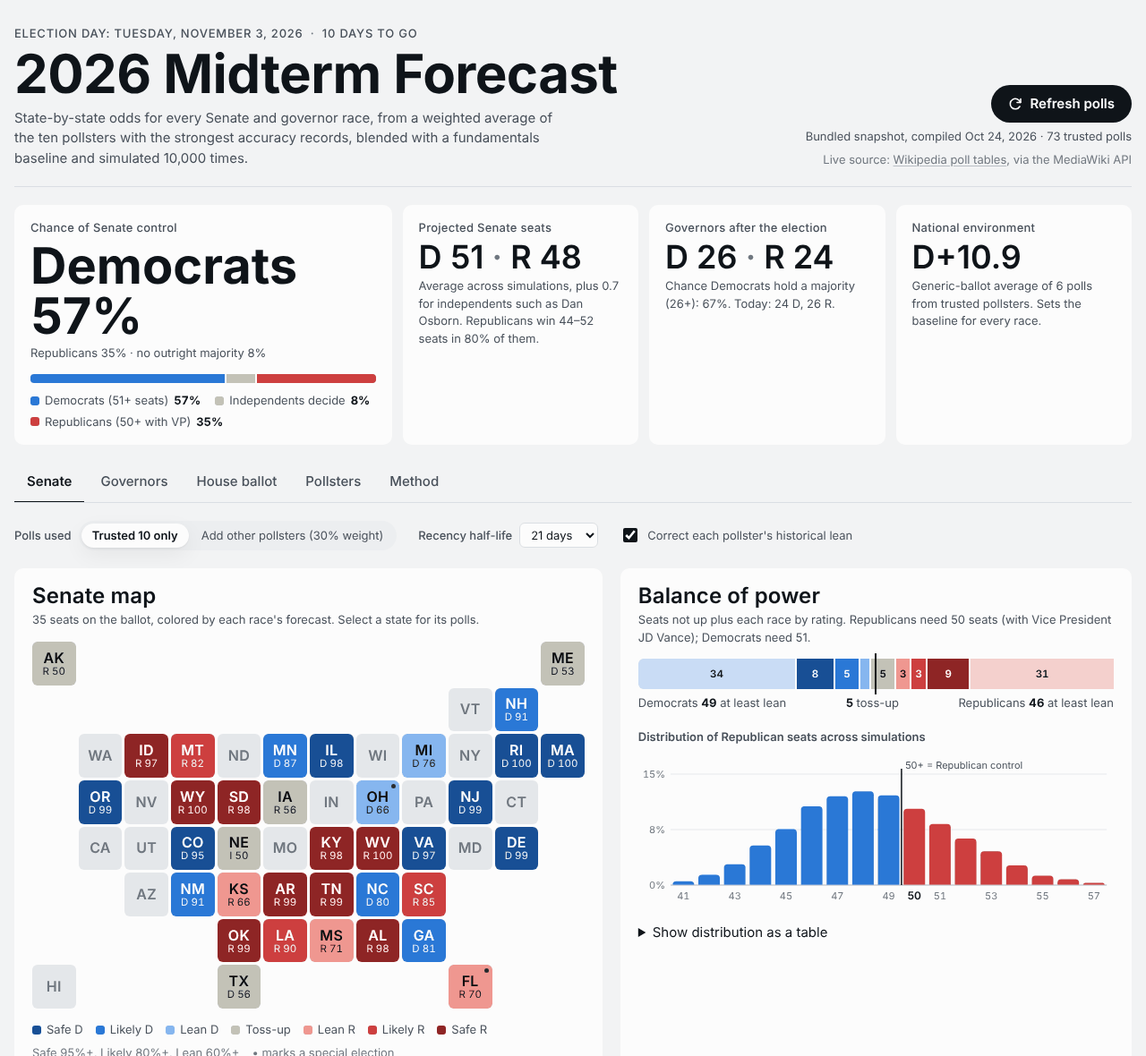
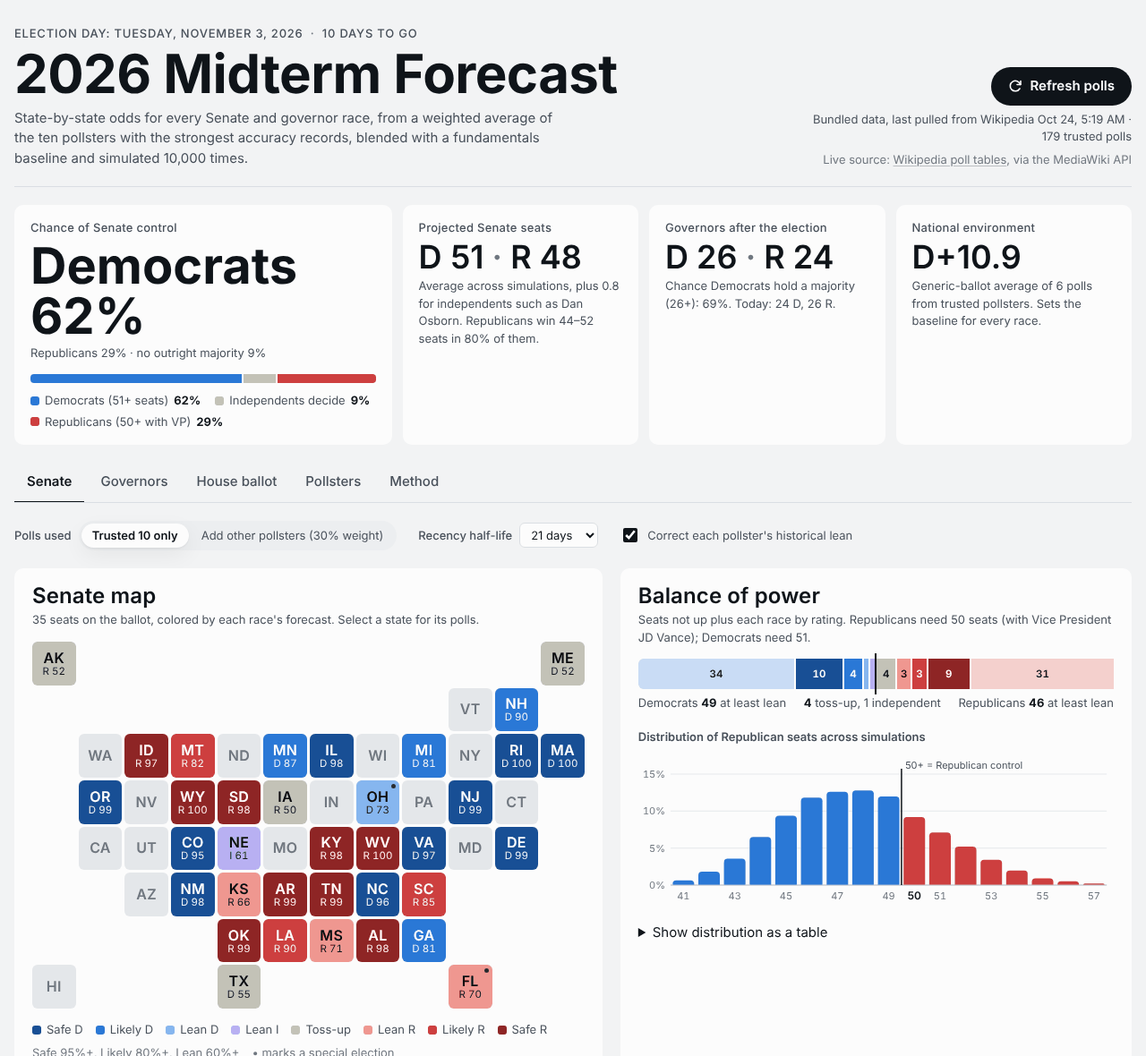
Label independents' margins, guard against stale data, dedupe polls
- Margins in independent-vs-Republican races read I+ instead of D+
  (Nebraska showed Osborn's lead as D+4.0).
- The status line says when the bundled data was last pulled from
  Wikipedia. A saved browser copy older than the bundle is dropped, and
  a fallback data file older than what is loaded only adds polls.
- Pollster names match with or without a party tag or leading "The".
  Remove 15 hand-compiled rows that Wikipedia lists under another name
  (Trafalgar, AJC, AARP and others), which double-counted them when
  other pollsters were included.
- README: forecast snapshot from the refreshed data, new screenshots,
  and a note that ratings follow the firm doing the fieldwork.

Claude-Session: https://claude.ai/code/session_0176JiQ2QTwzASsK9dQLLTXm

diff --git a/js/app.js b/js/app.js
@@ -119,7 +119,10 @@
       if (typeof prefs.applyBias === 'boolean') state.settings.applyBias = prefs.applyBias;
     }
     const saved = readStore(STORE_KEY);
-    if (saved && Array.isArray(saved.polls) && saved.polls.length && saved.fetchedAt) {
+    if (saved && SNAP.meta.refreshed && saved.fetchedAt && saved.fetchedAt < SNAP.meta.refreshed) {
+      // The bundled data was pulled from Wikipedia after this saved copy, so it supersedes it.
+      dropStore(STORE_KEY);
+    } else if (saved && Array.isArray(saved.polls) && saved.polls.length && saved.fetchedAt) {
       // Keep any hand-compiled rows the saved copy predates, then lay the saved rows on top.
       state.polls = W.mergePolls(SNAP.polls.slice(), saved.polls).polls;
       state.data = { origin: saved.origin || 'wikipedia', compiled: SNAP.meta.compiled, fetchedAt: saved.fetchedAt, pagesOk: saved.pagesOk, pagesTotal: saved.pagesTotal };
@@ -157,6 +160,8 @@
         (state.data.pagesTotal ? ' from ' + state.data.pagesOk + ' of ' + state.data.pagesTotal + ' pages' : '') +
         ' · ' + plural(n, 'trusted poll') + ' · ');
       append(box, h('button', { type: 'button', class: 'btn-link', onclick: resetToSnapshot, text: 'Use bundled snapshot' }));
+    } else if (SNAP.meta.refreshed) {
+      append(box, 'Bundled data, last pulled from Wikipedia ' + fmtTime(SNAP.meta.refreshed) + ' · ' + plural(n, 'trusted poll'));
     } else {
       append(box, 'Bundled snapshot, compiled ' + fmtDayYear(state.data.compiled) + ' · ' + plural(n, 'trusted poll'));
     }
@@ -168,7 +173,7 @@
   function resetToSnapshot() {
     dropStore(STORE_KEY);
     state.polls = SNAP.polls.slice();
-    state.data = { origin: 'snapshot', compiled: SNAP.meta.compiled, fetchedAt: null };
+    state.data = { origin: 'snapshot', compiled: SNAP.meta.compiled, fetchedAt: SNAP.meta.refreshed || null };
     $('change-banner').hidden = true;
     recompute();
   }
@@ -242,7 +247,7 @@
     return [
       h('div', { class: 'tt-value', text: raceTitle(r.race) }),
       h('div', null, ch.c0.name + ' (' + ch.c0.party + ') ' + fmtProb(r.prob) + ' · ' + ch.c1.name + ' (R) ' + fmtProb(1 - r.prob)),
-      h('div', { class: 'tt-dim' }, 'Forecast ' + fmtMargin(r.final.mean) + ' · ' + r.rating.label + ' · ' + coverageText(r))
+      h('div', { class: 'tt-dim' }, 'Forecast ' + fmtMargin(r.final.mean, r.race) + ' · ' + r.rating.label + ' · ' + coverageText(r))
     ];
   }
   function coverageText(r) {
@@ -435,9 +440,9 @@
         h('td', { class: 'state-cell' }, h('button', { type: 'button', 'aria-label': 'Open ' + raceTitle(race) + ' details', onclick: function (e) { e.stopPropagation(); openRace(race.id); }, text: race.state })),
         h('td', null, h('div', { class: 'race-name' },
           h('span', { class: 'who' }, c0.name + ' (' + c0.party + ')', h('span', { class: 'muted', text: ' vs. ' }), c1.name + ' (R)'),
-          h('span', { class: 'what' }, h('span', { class: 'what-rating', text: r.rating.label + ' · ' + fmtMargin(r.final.mean) + ' · ' }), what))),
+          h('span', { class: 'what' }, h('span', { class: 'what-rating', text: r.rating.label + ' · ' + fmtMargin(r.final.mean, race) + ' · ' }), what))),
         h('td', null, chanceCell(r)),
-        h('td', { class: 'num col-margin', text: fmtMargin(r.final.mean) }),
+        h('td', { class: 'num col-margin', text: fmtMargin(r.final.mean, race) }),
         h('td', { class: 'col-rating' }, h('span', { class: 'pill ' + fillClass(r), text: r.rating.label })),
         h('td', { class: 'col-polls' }, h('span', { class: 'coverage' }, bars, trusted ? String(trusted) : h('span', { class: 'muted', text: 'none' }))),
         h('td', { class: 'col-latest', text: r.avg ? fmtDay(r.avg.latest) : '–' }));
@@ -514,7 +519,7 @@
     if (series.length) {
       const last = series[series.length - 1];
       append(svg, sv('circle', { cx: xs(last.date), cy: ys(last.margin), r: 4.5, fill: 'var(--ink)', stroke: 'var(--surface)', 'stroke-width': 2 }));
-      append(svg, sv('text', { class: 'label-strong', x: xs(last.date) + 8, y: ys(last.margin) + 4, text: fmtMargin(last.margin) }));
+      append(svg, sv('text', { class: 'label-strong', x: xs(last.date) + 8, y: ys(last.margin) + 4, text: fmtMargin(last.margin, race) }));
     }
     const cross = sv('line', { x1: 0, x2: 0, y1: pad.t, y2: height - pad.b, stroke: 'var(--ink)', 'stroke-width': 1, opacity: 0 });
     append(svg, cross);
@@ -532,9 +537,9 @@
       cross.setAttribute('x1', xs(p.date)); cross.setAttribute('x2', xs(p.date)); cross.setAttribute('opacity', 0.35);
       const nearPolls = rows.filter(function (r) { return Math.abs(M.daysBetween(r.poll.end, p.date)) <= 1; });
       showTip(e.clientX, e.clientY, [
-        h('div', { class: 'tt-value', text: fmtMargin(p.margin) }),
+        h('div', { class: 'tt-value', text: fmtMargin(p.margin, race) }),
         h('div', { text: 'Average on ' + fmtDay(p.date) }),
-        nearPolls.map(function (r) { return h('div', { class: 'tt-dim', text: shortPollster(r.poll) + ': ' + fmtMargin(r.adjMargin) }); })
+        nearPolls.map(function (r) { return h('div', { class: 'tt-dim', text: shortPollster(r.poll) + ': ' + fmtMargin(r.adjMargin, race) }); })
       ]);
     });
     overlay.addEventListener('pointerleave', function () { cross.setAttribute('opacity', 0); hideTip(); });
@@ -650,7 +655,8 @@
       h('h3', { text: '4. Simulate' }),
       p('Each simulation draws one national polling error shared by every race (standard deviation ' + s.sigmaNational + ' points, fat-tailed) plus an independent error for each race, then counts seats. Republicans keep the Senate with 50 seats because Vice President JD Vance breaks ties. Democrats need 51. Independents such as Dan Osborn are counted separately, so some simulations end with no outright majority.'),
       h('h3', { text: '5. Refresh' }),
-      p('"Refresh polls" downloads every race article from Wikipedia through its public API, reads each poll table, keeps tables that list both nominees, prefers likely-voter versions of each poll, and merges new rows into the dataset. Everything then recalculates. Refreshed data is saved in this browser only. The bundled snapshot was compiled by hand on ' + fmtDayYear(SNAP.meta.compiled) + ' from pollster releases and news reports, with a source link on every poll. Rows marked ≈ have release dates standing in for unpublished field dates.'),
+      p('"Refresh polls" downloads every race article from Wikipedia through its public API, reads each poll table, keeps tables that list both nominees, prefers likely-voter versions of each poll, and merges new rows into the dataset. Everything then recalculates. Refreshed data is saved in this browser only. The bundled snapshot was compiled by hand on ' + fmtDayYear(SNAP.meta.compiled) + ' from pollster releases and news reports, with a source link on every poll' +
+        (SNAP.meta.refreshed ? ', then merged with Wikipedia\'s poll tables on ' + fmtTime(SNAP.meta.refreshed) : '') + '. Rows marked ≈ have release dates standing in for unpublished field dates.'),
       h('h3', { text: 'Limits' }),
       h('ul', null,
         h('li', null, 'Only the ten trusted pollsters count by default, so races they have not polled lean on the baseline. Switch on "Add other pollsters" to see how the picture changes with every public poll.'),
@@ -704,11 +710,11 @@
       : 'No qualifying polls; forecast uses the baseline only';
     append(body, h('div', { class: 'build' },
       h('div', { class: 'step' }, h('span', { class: 'k', text: state.settings.includeOthers ? 'Poll average (all pollsters)' : 'Poll average (trusted pollsters)' }),
-        h('span', { class: 'v', text: r.avg ? fmtMargin(r.avg.margin) : '–' }), h('span', { class: 's', text: pollPart })),
+        h('span', { class: 'v', text: r.avg ? fmtMargin(r.avg.margin, race) : '–' }), h('span', { class: 's', text: pollPart })),
       h('div', { class: 'step' }, h('span', { class: 'k', text: 'Fundamentals baseline' }),
-        h('span', { class: 'v', text: fmtMargin(r.prior.mean) }), h('span', { class: 's', text: r.prior.detail })),
+        h('span', { class: 'v', text: fmtMargin(r.prior.mean, race) }), h('span', { class: 's', text: r.prior.detail })),
       h('div', { class: 'step' }, h('span', { class: 'k', text: 'Forecast margin' }),
-        h('span', { class: 'v', text: fmtMargin(r.final.mean) }), h('span', { class: 's', text: '80% range ' + fmtMargin(lo) + ' to ' + fmtMargin(hi) }))));
+        h('span', { class: 'v', text: fmtMargin(r.final.mean, race) }), h('span', { class: 's', text: '80% range ' + fmtMargin(lo, race) + ' to ' + fmtMargin(hi, race) }))));
 
     const chartBox = h('div', { class: 'chart' });
     append(body, h('h3', { class: 'sub-head', text: 'Polling average since August (margin, ' + c0.last + ' minus ' + c1.last + ')' }), chartBox);
@@ -727,7 +733,7 @@
         h('td', null, dateCell(row.poll)),
         h('td', { text: sampleText(row.poll) }),
         h('td', { class: 'num', text: res }),
-        h('td', { class: 'num', title: row.bias ? 'Raw ' + fmtMargin(row.margin) + ', corrected for historical lean' : null, text: fmtMargin(row.adjMargin) }),
+        h('td', { class: 'num', title: row.bias ? 'Raw ' + fmtMargin(row.margin, race) + ', corrected for historical lean' : null, text: fmtMargin(row.adjMargin, race) }),
         h('td', { class: 'weights', text: 'trust ' + f.trust.toFixed(2) + ' × recency ' + f.recency.toFixed(2) + ' × size ' + f.size.toFixed(2) + ' × screen ' + f.pop.toFixed(2) + (f.repeat < 1 ? ' × repeat ' + f.repeat.toFixed(2) : '') }),
         h('td', { class: 'num', text: Math.round(row.share * 100) + '%' })));
     });
@@ -741,7 +747,7 @@
       if (others.length) {
         const list = h('ul', { class: 'race-notes' });
         others.slice(0, 12).forEach(function (p) {
-          append(list, h('li', null, sourceLink(p), ' · ' + fmtRange(p.start, p.end) + ' · ' + fmtMargin(M.pollMargin(p, race))));
+          append(list, h('li', null, sourceLink(p), ' · ' + fmtRange(p.start, p.end) + ' · ' + fmtMargin(M.pollMargin(p, race), race)));
         });
         append(body, h('details', { class: 'table-toggle' }, h('summary', { text: plural(others.length, 'poll') + ' from other pollsters, not used (turn on "Add other pollsters" to include them)' }), list));
       }
@@ -820,14 +826,16 @@
         via = 'the repository\'s data file through your GitHub connector';
       }
       if (fallback) {
-        const merged = W.mergePolls(state.polls, fallback.polls);
-        state.polls = merged.polls;
         const refreshed = fallback.meta && fallback.meta.refreshed;
-        state.data = { origin: 'repository', compiled: SNAP.meta.compiled, fetchedAt: refreshed || new Date().toISOString() };
-        writeStore(STORE_KEY, { origin: 'repository', fetchedAt: state.data.fetchedAt, polls: state.polls });
+        // A file older than the data already loaded may add polls but never rolls rows back.
+        const older = !!(refreshed && state.data.fetchedAt && refreshed < state.data.fetchedAt);
+        const merged = W.mergePolls(state.polls, fallback.polls, { addOnly: older });
+        state.polls = merged.polls;
+        if (!older) state.data = { origin: 'repository', compiled: SNAP.meta.compiled, fetchedAt: refreshed || new Date().toISOString() };
+        writeStore(STORE_KEY, Object.assign({}, state.data, { polls: state.polls }));
         recompute();
         showBanner(false, 'This page can\'t call Wikipedia directly, so it loaded ' + via + ' (' +
-          (refreshed ? 'last refreshed from Wikipedia ' + fmtTime(refreshed) : 'the hand-compiled snapshot; the repository\'s "Update polls" action has not run yet') + '): ' +
+          (refreshed ? 'last refreshed from Wikipedia ' + fmtTime(refreshed) + (older ? ', older than the data already here' : '') : 'the hand-compiled snapshot; the repository\'s "Update polls" action has not run yet') + '): ' +
           plural(merged.added.length, 'new poll') + ', ' + plural(merged.updated.length, 'updated row') + '.', null);
       } else if (connectorError) {
         showBanner(true, connectorError, null);
@@ -943,7 +951,7 @@
       const ul = h('ul');
       trustedNew.slice(0, 8).forEach(function (p) {
         const race = M.RACE_BY_ID[p.race];
-        append(ul, h('li', { text: shortPollster(p) + ' · ' + raceTitle(race) + ' · ' + fmtRange(p.start, p.end) + ' · ' + fmtMargin(M.pollMargin(p, race)) }));
+        append(ul, h('li', { text: shortPollster(p) + ' · ' + raceTitle(race) + ' · ' + fmtRange(p.start, p.end) + ' · ' + fmtMargin(M.pollMargin(p, race), race) }));
       });
       if (trustedNew.length > 8) append(ul, h('li', { text: 'and ' + (trustedNew.length - 8) + ' more' }));
       nodes.push(ul);

diff --git a/data/polls.js b/data/polls.js
@@ -94,27 +94,12 @@
     {"race":"GOV-ME","pollster":"Marist University","pollsterId":"marist","start":"2026-10-01","end":"2026-10-04","n":1505,"pop":"RV","results":{"Pingree":52,"Charles":40,"Bennett":6},"partisan":null,"source":"https://en.wikipedia.org/wiki/2026_Maine_gubernatorial_election","origin":"wikipedia"},
     {"race":"SEN-NH","pollster":"Saint Anselm College","pollsterId":null,"start":"2026-10-19","end":"2026-10-20","n":1672,"pop":"LV","results":{"Pappas":50,"Sununu":43},"partisan":null,"source":"https://en.wikipedia.org/wiki/2026_United_States_Senate_election_in_New_Hampshire","origin":"wikipedia","note":"Released Oct. 22."},
     {"race":"SEN-NH","pollster":"University of New Hampshire","pollsterId":null,"start":"2026-09-17","end":"2026-09-21","n":1418,"pop":"LV","results":{"Pappas":50,"Sununu":42},"partisan":null,"source":"https://en.wikipedia.org/wiki/2026_United_States_Senate_election_in_New_Hampshire","origin":"wikipedia"},
-    {"race":"SEN-NH","pollster":"Rasmussen Reports","pollsterId":null,"start":"2026-10-02","end":"2026-10-04","n":979,"pop":"LV","results":{"Pappas":49,"Sununu":44},"source":"https://www.realclearpolling.com/polls/senate/general/2026/new-hampshire/pappas-vs-sununu"},
-    {"race":"SEN-GA","pollster":"University of Georgia/AJC","pollsterId":null,"start":"2026-10-07","end":"2026-10-15","n":1000,"pop":"LV","results":{"Ossoff":48,"Collins":40},"source":"https://www.wsbtv.com/news/local/ajcuga-poll-jon-ossoff-leads-mike-collins-among-likely-voters-us-senate-race/YWLQFEFS3VHILHKZ3KWBO2ZX5I/"},
-    {"race":"SEN-GA","pollster":"Quantus Insights","pollsterId":null,"start":"2026-10-15","end":"2026-10-17","n":755,"pop":"LV","results":{"Ossoff":51.8,"Collins":44.9},"source":"https://www.atlantanewsfirst.com/2026/10/19/new-georgia-poll-ossoff-leads-by-nearly-7-jackson-dolezal-cling-narrow-edges/"},
-    {"race":"SEN-GA","pollster":"Trafalgar Group","pollsterId":null,"start":"2026-10-07","end":"2026-10-09","n":1101,"pop":"LV","results":{"Ossoff":51,"Collins":43},"source":"https://www.newsweek.com/jon-ossoff-extends-lead-over-mike-collins-in-georgia-senate-race-poll-12552612"},
+    {"race":"SEN-NH","pollster":"Rasmussen Reports","pollsterId":null,"start":"2026-10-02","end":"2026-10-04","n":979,"pop":"LV","results":{"Pappas":49,"Sununu":44},"source":"https://www.realclearpolling.com/polls/senate/general/2026/new-hampshire/pappas-vs-sununu","partisan":"R"},
     {"race":"SEN-NC","pollster":"Elon University / YouGov","pollsterId":null,"start":"2026-09-29","end":"2026-10-08","n":561,"pop":"LV","results":{"Cooper":52,"Whatley":39},"partisan":null,"source":"https://en.wikipedia.org/wiki/2026_United_States_Senate_election_in_North_Carolina","origin":"wikipedia"},
-    {"race":"SEN-NC","pollster":"Trafalgar Group","pollsterId":null,"start":"2026-10-08","end":"2026-10-10","n":1091,"pop":"LV","results":{"Cooper":48.8,"Whatley":40.9},"source":"https://thehill.com/homenews/campaign/6144234-roy-cooper-leads-whatley-nc/"},
     {"race":"SEN-MI","pollster":"YouGov","pollsterId":null,"start":"2026-09-22","end":"2026-10-04","n":3949,"pop":"LV","results":{"El-Sayed":49,"Rogers":48},"partisan":null,"source":"https://en.wikipedia.org/wiki/2026_United_States_Senate_election_in_Michigan","origin":"wikipedia"},
-    {"race":"SEN-MI","pollster":"InsiderAdvantage","pollsterId":null,"start":"2026-10-21","end":"2026-10-22","n":1200,"pop":"LV","results":{"El-Sayed":47,"Rogers":46},"source":"https://www.realclearpolling.com/polls/senate/general/2026/michigan/rogers-vs-el-sayed"},
-    {"race":"SEN-MI","pollster":"Tyson Group","pollsterId":null,"partisan":"R","start":"2026-10-06","end":"2026-10-08","n":600,"pop":"LV","results":{"El-Sayed":44,"Rogers":46},"note":"Sponsored by an ally of Mike Rogers.","source":"https://www.newsweek.com/rogers-el-sayed-clash-over-war-trump-in-final-michigan-senate-debate-12596649"},
+    {"race":"SEN-MI","pollster":"InsiderAdvantage","pollsterId":null,"start":"2026-10-21","end":"2026-10-22","n":1200,"pop":"LV","results":{"El-Sayed":47,"Rogers":46},"source":"https://www.realclearpolling.com/polls/senate/general/2026/michigan/rogers-vs-el-sayed","partisan":"R"},
     {"race":"SEN-NE","pollster":"YouGov","pollsterId":null,"start":"2026-09-24","end":"2026-10-03","n":1809,"pop":"LV","results":{"Osborn":48,"Ricketts":47},"partisan":null,"source":"https://en.wikipedia.org/wiki/2026_United_States_Senate_election_in_Nebraska","origin":"wikipedia"},
-    {"race":"SEN-NE","pollster":"National Public Affairs","pollsterId":null,"partisan":"R","start":"2026-10-10","end":"2026-10-10","n":null,"pop":"LV","results":{"Osborn":43,"Ricketts":46},"approx":true,"source":"https://politicalwire.com/2026/10/12/ricketts-leads-osborn-in-nebraska-senate-race/"},
-    {"race":"SEN-MT","pollster":"Quantus Insights","pollsterId":null,"start":"2026-10-15","end":"2026-10-18","n":686,"pop":"LV","results":{"Bodnar":28,"Alme":44,"Bankhead":21},"source":"https://www.realclearpolling.com/polls/senate/general/2026/montana/alme-vs-bankhead-vs-bodnar"},
-    {"race":"SEN-KS","pollster":"InsiderAdvantage","pollsterId":null,"start":"2026-10-13","end":"2026-10-14","n":1200,"pop":"LV","results":{"Hamilton":47,"Marshall":48},"source":"https://www.newsweek.com/adam-hamilton-vs-roger-marshall-kansas-senate-race-odds-polls-12460819"},
-    {"race":"SEN-ME","pollster":"AARP","pollsterId":null,"start":"2026-09-20","end":"2026-09-22","n":982,"pop":"LV","results":{"Jackson":50,"Collins":47},"source":"https://www.newsweek.com/maine-senate-polling-as-susan-collins-troy-jackson-head-into-fourth-debate-12569146"},
-    {"race":"SEN-MN","pollster":"Trafalgar Group","pollsterId":null,"start":"2026-10-15","end":"2026-10-17","n":null,"pop":"LV","results":{"Flanagan":48.1,"Tafoya":44.6},"approx":true,"source":"https://suaragarut.id/en/flanagan-tafoya-minnesota-senate-poll"},
-    {"race":"GOV-GA","pollster":"University of Georgia/AJC","pollsterId":null,"start":"2026-10-07","end":"2026-10-15","n":1000,"pop":"LV","results":{"Bottoms":45,"Jackson":46},"source":"https://www.270towin.com/2026-governor-polls/georgia"},
     {"race":"GOV-AZ","pollster":"Noble Predictive Insights","pollsterId":null,"start":"2026-09-28","end":"2026-09-28","n":null,"pop":"LV","results":{"Hobbs":48,"Biggs":35},"approx":true,"source":"https://cronkitenews.azpbs.org/2026/10/01/andy-biggs-katie-hobbs-arizona-polls-kalshi/"},
-    {"race":"GOV-NM","pollster":"Albuquerque Journal","pollsterId":null,"start":"2026-08-28","end":"2026-08-28","n":null,"pop":"LV","results":{"Haaland":49,"Hull":43},"approx":true,"source":"https://www.kunm.org/kunm-news-update/2026-08-31/mon-poll-shows-haaland-leads-hull-by-closer-than-expected-margin-in-new-mexicos-race-for-governor"},
-    {"race":"GOV-MN","pollster":"Star Tribune/KARE 11","pollsterId":null,"start":"2026-10-08","end":"2026-10-08","n":null,"pop":"LV","results":{"Klobuchar":50,"Demuth":41},"approx":true,"source":"https://politicalwire.com/2026/10/13/amy-klobuchar-hits-50-for-minnesota-governor/"},
-    {"race":"GOV-OH","pollster":"co/efficient","pollsterId":null,"partisan":"R","start":"2026-10-05","end":"2026-10-06","n":925,"pop":"LV","results":{"Acton":43,"Ramaswamy":45},"source":"https://www.newsweek.com/vivek-ramaswamy-gets-boost-after-five-ohio-polling-blows-in-a-row-12544047"},
-    {"race":"GOV-TX","pollster":"University of Houston Hobby School","pollsterId":null,"start":"2026-10-10","end":"2026-10-14","n":null,"pop":"LV","results":{"Hinojosa":46,"Abbott":49},"source":"https://www.fox7austin.com/news/texas-governors-race-abbott-holds-narrow-lead-over-hinojosa-latest-poll"},
     {"race":"SEN-AL","pollster":"Cygnal (R)","pollsterId":null,"start":"2026-10-16","end":"2026-10-17","n":500,"pop":"LV","results":{"Wess":35,"Moore":50},"partisan":"R","source":"https://en.wikipedia.org/wiki/2026_United_States_Senate_election_in_Alabama","origin":"wikipedia"},
     {"race":"SEN-AL","pollster":"The Alabama Poll","pollsterId":null,"start":"2026-10-15","end":"2026-10-16","n":600,"pop":"LV","results":{"Wess":35,"Moore":56},"partisan":null,"source":"https://en.wikipedia.org/wiki/2026_United_States_Senate_election_in_Alabama","origin":"wikipedia"},
     {"race":"SEN-AL","pollster":"RMG Research (R)","pollsterId":null,"start":"2026-09-21","end":"2026-09-25","n":800,"pop":"RV","results":{"Wess":33,"Moore":54},"partisan":"R","source":"https://en.wikipedia.org/wiki/2026_United_States_Senate_election_in_Alabama","origin":"wikipedia"},

diff --git a/js/wikipedia.js b/js/wikipedia.js
@@ -403,7 +403,9 @@
 
   // -------------------------------------------------------------- merging
   function sourceKey(p) {
-    return p.race + '|' + (p.pollsterId || normName(p.pollster).slice(0, 24));
+    // Sources disagree on party tags and a leading "The": "The Tyson Group (R)" is "Tyson Group".
+    const name = String(p.pollster || '').replace(/\((?:D|R)\)/g, ' ').replace(/^\s*the\s+/i, '');
+    return p.race + '|' + (p.pollsterId || normName(name).slice(0, 24));
   }
 
   /** Field-date gap in days if a and b can be the same poll, else -1. */
@@ -428,10 +430,12 @@
    * Merge polls into an existing list. A matching existing row (same race,
    * pollster and field dates) is replaced unless it came from Wikipedia and
    * the incoming row did not, so a stale data file never overwrites a
-   * fresher live read. Anything unmatched is added. Returns the merged list
-   * plus what changed.
+   * fresher live read. Anything unmatched is added. With addOnly, matching
+   * rows are left as they are (for a data file older than what is loaded).
+   * Returns the merged list plus what changed.
    */
-  function mergePolls(existing, incoming) {
+  function mergePolls(existing, incoming, opts) {
+    const addOnly = !!(opts && opts.addOnly);
     const merged = existing.slice();
     const added = [], updated = [];
     // Pair each incoming poll with at most one existing row, closest field dates first,
@@ -455,7 +459,7 @@
       const i = matchOf[j];
       if (i < 0) { merged.push(poll); added.push(poll); return; }
       const prev = existing[i];
-      if (prev.origin === 'wikipedia' && poll.origin !== 'wikipedia') return;
+      if (addOnly || (prev.origin === 'wikipedia' && poll.origin !== 'wikipedia')) return;
       const changed = differs(prev, poll);
       merged[i] = Object.assign({}, poll, {
         note: poll.note || (changed ? undefined : prev.note),

diff --git a/test/parser.test.js b/test/parser.test.js
@@ -130,6 +130,13 @@ test('mergePolls never lets an older data file overwrite a live Wikipedia row', 
   // Extra third-party columns alone do not count as an update.
   const withThird = Object.assign({}, live, { results: { Talarico: 47, Paxton: 45, Brown: 1 } });
   assert.equal(WIKI.mergePolls([withThird], [live]).updated.length, 0);
+  // addOnly keeps every existing row and still adds unmatched polls.
+  const edited = Object.assign({}, live, { results: { Talarico: 48, Paxton: 45 } });
+  const extra = Object.assign({}, live, { pollster: 'Emerson College', pollsterId: 'emerson' });
+  const kept = WIKI.mergePolls([live], [edited, extra], { addOnly: true });
+  assert.equal(kept.updated.length, 0);
+  assert.equal(kept.added.length, 1);
+  assert.equal(kept.polls[0].results.Talarico, 47);
 });
 
 test('Fox News polls credited to Beacon/Shaw are trusted and not partisan', () => {
@@ -168,6 +175,14 @@ test('head-to-head-only races ignore first-round ranked-choice tables', () => {
   const polls = WIKI.pollsForRace(race('GOV-AK'), html, 'x');
   assert.equal(polls.length, 1);
   assert.deepEqual(polls[0].results, { 'Kreiss-Tomkins': 47, Wilson: 48 });
+});
+
+test('mergePolls matches a pollster whether or not it carries a party tag', () => {
+  const hand = { race: 'SEN-MI', pollster: 'Tyson Group', pollsterId: null, start: '2026-10-06', end: '2026-10-08', n: 600, pop: 'LV', results: { 'El-Sayed': 44, Rogers: 46 }, source: 's' };
+  const wiki = Object.assign({}, hand, { pollster: 'The Tyson Group (R)', partisan: 'R', source: 'w', origin: 'wikipedia' });
+  const out = WIKI.mergePolls([hand], [wiki]);
+  assert.equal(out.polls.length, 1);
+  assert.equal(out.polls[0].partisan, 'R');
 });
 
 test('mergePolls keeps two distinct polls by one firm a few days apart', () => {

diff --git a/js/model.js b/js/model.js
@@ -183,7 +183,7 @@
       mean = race.last.margin + f * (env - envThen);
       sd = s.priorSigma.incumbent;
       basis = 'incumbent';
-      detail = (race.last.basis || 'Incumbent\'s last result (' + race.last.year + ')') + ' ' + fmtMargin(race.last.margin) +
+      detail = (race.last.basis || 'Incumbent\'s last result (' + race.last.year + ')') + ' ' + fmtMargin(race.last.margin, race) +
         ', plus ' + Math.round(f * 100) + '% of the national swing since then (' + fmtMargin(envThen) + ' to ' + fmtMargin(env) + ')';
     } else {
       const f = gov ? s.swing.governorOpen : s.swing.senateOpen;
@@ -330,10 +330,12 @@
     return { tier: tier, side: side, label: tier + ' ' + side, key: tier.toLowerCase() + '-' + side.toLowerCase() };
   }
 
-  function fmtMargin(m) {
+  /** Signed margin as text. With a race, the leader's own party letter: I+4.0 for an independent. */
+  function fmtMargin(m, race) {
     if (m == null || !isFinite(m)) return 'n/a';
     const v = Math.abs(m) < 0.05 ? 0 : m;
-    return v === 0 ? 'even' : (v > 0 ? 'D+' : 'R+') + Math.abs(v).toFixed(1);
+    const side = race ? race.candidates[v > 0 ? 0 : 1].party : (v > 0 ? 'D' : 'R');
+    return v === 0 ? 'even' : side + '+' + Math.abs(v).toFixed(1);
   }
 
   // ---------------------------------------------------------------- run

diff --git a/scripts/predict.js b/scripts/predict.js
@@ -49,8 +49,8 @@ console.log(`Governors: Democratic majority ${pct(out.governors.probDMajority)},
       const c = r.race.candidates;
       const lead = r.prob >= 0.5 ? c[0] : c[1];
       console.log('  ' + r.race.state.padEnd(6) + (c[0].last + ' (' + c[0].party + ') v ' + c[1].last + ' (R)').padEnd(34) +
-        String(r.avg ? r.avg.count : 0).padStart(6) + (r.avg ? MODEL.fmtMargin(r.avg.margin) : '-').padStart(10) +
-        MODEL.fmtMargin(r.prior.mean).padStart(10) + MODEL.fmtMargin(r.final.mean).padStart(10) +
+        String(r.avg ? r.avg.count : 0).padStart(6) + (r.avg ? MODEL.fmtMargin(r.avg.margin, r.race) : '-').padStart(10) +
+        MODEL.fmtMargin(r.prior.mean, r.race).padStart(10) + MODEL.fmtMargin(r.final.mean, r.race).padStart(10) +
         (lead.last + ' ' + pct(Math.max(r.prob, 1 - r.prob))).padStart(18) + '  ' + r.rating.label);
     });
 });

diff --git a/test/model.test.js b/test/model.test.js
@@ -165,4 +165,8 @@ test('fmtMargin labels sides', () => {
   assert.equal(MODEL.fmtMargin(2.34), 'D+2.3');
   assert.equal(MODEL.fmtMargin(-0.04), 'even');
   assert.equal(MODEL.fmtMargin(-7), 'R+7.0');
+  const ne = MODEL.RACE_BY_ID['SEN-NE'];
+  assert.equal(MODEL.fmtMargin(4, ne), 'I+4.0');
+  assert.equal(MODEL.fmtMargin(-4, ne), 'R+4.0');
+  assert.equal(MODEL.fmtMargin(4, MODEL.RACE_BY_ID['SEN-ME']), 'D+4.0');
 });

diff --git a/README.md b/README.md
@@ -15,7 +15,7 @@ A state-by-state forecast for every 2026 Senate and governor race. It's built fr
 Command-line tools need Node 18 or newer and no npm install:
 
 ```bash
-node --test test/*.test.js        # 30 tests: parser, model, data integrity
+node --test test/*.test.js        # 35 tests: parser, model, data integrity
 node scripts/predict.js           # forecast table in the terminal (--all, --json, --as-of YYYY-MM-DD)
 node scripts/update-polls.js      # pull Wikipedia polls into data/polls.js and data/polls.json (--dry-run)
 node scripts/build-standalone.js  # one self-contained HTML file in dist/
@@ -50,6 +50,8 @@ Selection rule: the top-graded firms in [Silver Bulletin's pollster ratings](htt
 
 \* Silver Bulletin's mean-reverted bias, as published in [Media Bias/Fact Check pollster profiles](https://mediabiasfactcheck.com/pollster-sources/): how far the firm's past polls have leaned, in points of margin. "n/a" means no numeric value was available, so no correction is applied.
 
+Ratings belong to the firm that conducts the poll, so its polls for other sponsors count too: Siena's own New York and Texas polls, SurveyUSA's polls for local TV stations, and so on. AtlasIntel has not published polls of these races yet. It stays on the list so its polls count as soon as they appear.
+
 **Left out:** YouGov (B, 77th in the 2025 update), SSRS/CNN (C in the 2025 update), Gallup (no horse-race polls), Monmouth (polling institute closed in 2025), Selzer & Co. (retired from election polling after 2024), and partisan or lower-rated firms (Trafalgar, InsiderAdvantage, Quantus, co/efficient, Rasmussen, campaign-sponsored polls). The settings toggle can add them back at 30% weight, or 15% for party-affiliated polls (marked (D) or (R) on Wikipedia).
 
 Sources for the ratings: [Silver Bulletin January 2026 update](https://www.natesilver.net/p/pollster-ratings-silver-bulletin), [Marquette ranked No. 2 / Washington Post No. 1](https://today.marquette.edu/2026/02/marquette-law-school-poll-again-ranked-no-2-in-annual-national-pollster-ratings/), [AtlasIntel A+ in the 2025 update](https://atlasintel.org/media/atlasintel-has-an-a-rating-and-is-the-no1-pollster-in-america-according-to-the-2025-us-pollster-ratings), [FiveThirtyEight 2024 ratings (NYT/Siena most accurate)](https://scri.siena.edu/2024/02/06/the-new-york-times-siena-college-poll-ranked-most-accurate-pollster-in-america-by-fivethirtyeight-com), and the individual MBFC profiles for [Emerson](https://mediabiasfactcheck.com/emerson-college-polling-bias-and-credibility/), [Marist](https://mediabiasfactcheck.com/marist-poll-bias-and-credibility/), [Suffolk](https://mediabiasfactcheck.com/suffolk-polling-bias-and-credibility/), [Quinnipiac](https://mediabiasfactcheck.com/quinnipiac-poll-bias-and-credibility/), [SurveyUSA](https://mediabiasfactcheck.com/surveyusa-bias-and-credibility/), [Beacon/Shaw](https://mediabiasfactcheck.com/beacon-research-shaw-co-bias/), [Marquette](https://mediabiasfactcheck.com/marquette-university-poll-bias-and-credibility/), [AtlasIntel](https://mediabiasfactcheck.com/atlasintel-polling-bias-and-credibility/) and [Siena](https://mediabiasfactcheck.com/siena-college-research-institute-bias-and-credibility/).
@@ -74,40 +76,50 @@ All of this lives in [`js/model.js`](js/model.js), with defaults in `DEFAULTS`.
 
 Ratings: Safe ≥ 95%, Likely ≥ 80%, Lean ≥ 60%, otherwise Toss-up.
 
-## Forecast snapshot (bundled data, October 24, 2026)
+## Forecast snapshot (October 24, 2026)
 
-Trusted pollsters only, with default settings. The dashboard recalculates every time you refresh.
+This uses the bundled data after the **Update polls** workflow merged Wikipedia's poll tables (05:19 UTC), with trusted pollsters only and default settings. The dashboard recalculates every time you refresh.
 
-- **Senate control:** Democrats 57%, Republicans 35%, no outright majority 8%. Average seats: D 50.9, R 48.4, independents 0.7.
-- **Governors:** Democratic majority 67%. Average 26.4 Democratic governors.
+- **Senate control:** Democrats 62%, Republicans 29%, no outright majority 9%. Average seats: D 51.3, R 47.9, independents 0.8.
+- **Governors:** Democratic majority 69%. Average 26.5 Democratic governors.
 - **National environment:** D+10.9 on the generic ballot (NYT/Siena, Emerson, Marquette, Quinnipiac).
+
+Every race where the leader's chance is below 90%:
 
 | Senate race | Polls | Poll avg | Forecast | Chance |
 |---|---|---|---|---|
-| Alaska: Peltola (D) v Sullivan (R) | 1 | D+7.0 | even | Toss-up 50/50 |
-| Nebraska: Osborn (I) v Ricketts (R) | 0 | – | even | Toss-up 50/50 |
-| Maine: Jackson (D) v Collins (R) | 6 | D+1.4 | D+0.3 | Jackson 53% |
-| Texas: Talarico (D) v Paxton (R) | 6 | D+1.8 | D+0.7 | Talarico 56% |
-| Iowa: Turek (D) v Hinson (R) | 6 | even | R+0.8 | Hinson 57% |
+| Iowa: Turek (D) v Hinson (R) | 11 | D+0.8 | R+0.1 | Toss-up 50/50 |
+| Maine: Jackson (D) v Collins (R) | 6 | D+1.2 | D+0.2 | Jackson 52% |
+| Alaska: Peltola (D) v Sullivan (R) | 2 | D+6.8 | R+0.3 | Sullivan 52% |
+| Texas: Talarico (D) v Paxton (R) | 14 | D+1.6 | D+0.6 | Talarico 55% |
+| Nebraska: Osborn (I) v Ricketts (R) | 1 | I+4.0 | I+2.0 | Osborn 61% |
 | Kansas: Hamilton (D) v Marshall (R) | 2 | D+0.5 | R+2.2 | Marshall 66% |
-| Ohio (special): Brown (D) v Husted (R) | 5 | D+3.6 | D+2.0 | Brown 67% |
-| Michigan: El-Sayed (D) v Rogers (R) | 4 | D+1.7 | D+3.3 | El-Sayed 76% |
-| North Carolina: Cooper (D) v Whatley (R) | 1 | D+9.0 | D+7.0 | Cooper 80% |
+| Florida (special): Nixon (D) v Moody (R) | 1 | R+11.7 | R+4.7 | Moody 70% |
+| Mississippi: Colom (D) v Hyde-Smith (R) | 0 | – | R+4.6 | Hyde-Smith 71% |
+| Ohio (special): Brown (D) v Husted (R) | 8 | D+4.2 | D+2.8 | Brown 73% |
+| Michigan: El-Sayed (D) v Rogers (R) | 8 | D+2.6 | D+3.9 | El-Sayed 81% |
 | Georgia: Ossoff (D) v Collins (R) | 2 | D+12.8 | D+7.0 | Ossoff 81% |
-| Minnesota: Flanagan (D) v Tafoya (R) | 3 | D+2.5 | D+6.6 | Flanagan 87% |
+| Montana: Bodnar (I) v Alme (R) | 0 | – | R+10.0 | Alme 82% |
+| South Carolina: Andrews (D) v Graham (R) | 0 | – | R+9.5 | Graham 85% |
+| Minnesota: Flanagan (D) v Tafoya (R) | 3 | D+2.5 | D+6.4 | Flanagan 87% |
 
 | Governor race | Polls | Poll avg | Forecast | Chance |
 |---|---|---|---|---|
-| New Hampshire: Warmington (D) v Ayotte (R) | 0 | – | R+2.9 | Ayotte 62% |
 | Nevada: Ford (D) v Lombardo (R) | 1 | D+1.4 | D+3.9 | Ford 70% |
-| Georgia: Bottoms (D) v Jackson (R) | 0 | – | D+5.2 | Bottoms 71% |
-| Ohio: Acton (D) v Ramaswamy (R) | 3 | D+5.5 | D+2.9 | Acton 71% |
-| Iowa: Sand (D) v Lahn (R) | 3 | D+6.6 | D+3.1 | Sand 71% |
-| Wisconsin: Crowley (D) v Tiffany (R) | 2 | D+2.9 | D+4.4 | Crowley 75% |
-| Texas: Hinojosa (D) v Abbott (R) | 2 | R+3.7 | R+3.8 | Abbott 76% |
-| Michigan: Benson (D) v James (R) | 2 | D+6.3 | D+6.2 | Benson 87% |
+| Alaska: Kreiss-Tomkins (D) v Wilson (R) | 0 | – | R+5.7 | Wilson 71% |
+| Georgia: Bottoms (D) v Jackson (R) | 1 | D+5.0 | D+5.2 | Bottoms 71% |
+| Florida: Jolly (D) v Donalds (R) | 1 | R+5.7 | R+5.7 | Donalds 72% |
+| Ohio: Acton (D) v Ramaswamy (R) | 8 | D+4.4 | D+2.9 | Acton 75% |
+| Wisconsin: Crowley (D) v Tiffany (R) | 2 | D+2.9 | D+4.4 | Crowley 76% |
+| Texas: Hinojosa (D) v Abbott (R) | 13 | R+3.3 | R+3.5 | Abbott 79% |
+| Arizona: Hobbs (D) v Biggs (R) | 0 | – | D+7.5 | Hobbs 80% |
+| South Carolina: Johnson (D) v Wilson (R) | 0 | – | R+10.5 | Wilson 85% |
+| New Hampshire: Warmington (D) v Ayotte (R) | 1 | R+11.0 | R+7.0 | Ayotte 86% |
+| Oregon: Kotek (D) v Drazan (R) | 0 | – | D+10.3 | Kotek 87% |
+| Kansas: Holscher (D) v Masterson (R) | 2 | R+6.0 | R+6.8 | Masterson 88% |
+| Iowa: Sand (D) v Lahn (R) | 11 | D+8.0 | D+5.4 | Sand 88% |
 
-Run `node scripts/predict.js` for all 71 races.
+*Polls* counts every trusted poll from the last 240 days, but old polls carry little weight. Florida's only Senate poll is from March, so that forecast is essentially the baseline. Alaska shows the other side of the blend: one recent poll (Peltola +7) against an incumbent baseline of Sullivan +7 lands near even. Run `node scripts/predict.js` for all 71 races.
 
 ## Refreshing the data
 
@@ -123,7 +135,7 @@ A banner lists the new polls, the races that moved, and any page that couldn't b
 
 ## Data and caveats
 
-- `data/polls.js` was hand-compiled on October 24, 2026 from pollster releases and news coverage, with a source link on every row. It holds 96 polls, 73 of them from the trusted ten. Rows marked `approx: true` (≈ in the UI) use a release date in place of unpublished field dates, or an estimated per-state sample (NYT/Siena's five-state survey).
+- `data/polls.js` started as a hand-compiled snapshot (October 24, 2026) of 96 polls from pollster releases and news coverage, 73 of them from the trusted ten, with a source link on every row. The **Update polls** workflow then merged Wikipedia's poll tables: Wikipedia's versions replaced every matching row, so the file now holds 952 polls, 179 from the trusted ten. Nine rows remain hand-compiled: the six national generic-ballot polls and three state polls Wikipedia doesn't list. Rows marked `approx: true` (≈ in the UI) use a release date in place of unpublished field dates.
 - Only the trusted ten count by default, so races they have not polled lean on the fundamentals baseline. Turn on *Add other pollsters* to see every public poll's effect.
 - No Wikipedia article lists individual national generic-ballot polls this cycle (only aggregator averages), so the national environment comes from the bundled trusted generic-ballot polls; add new ones to `data/polls.js` as `HOUSE-US` rows.
 - Ranked-choice Alaska and the three-way Montana Senate race are modeled as the top two candidates.
